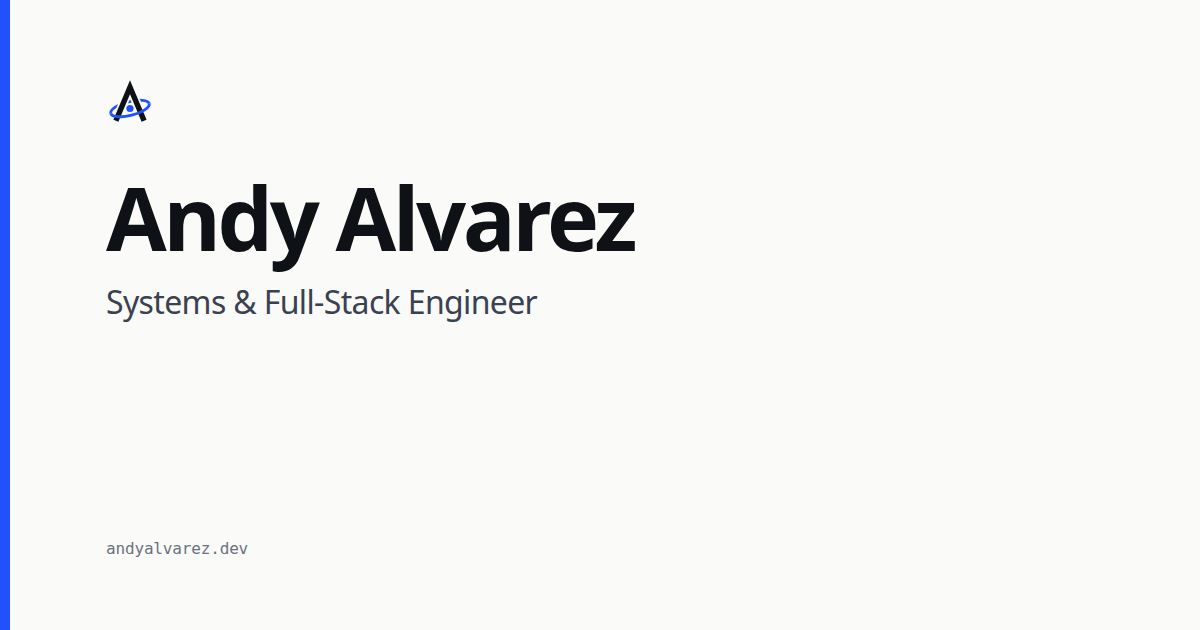
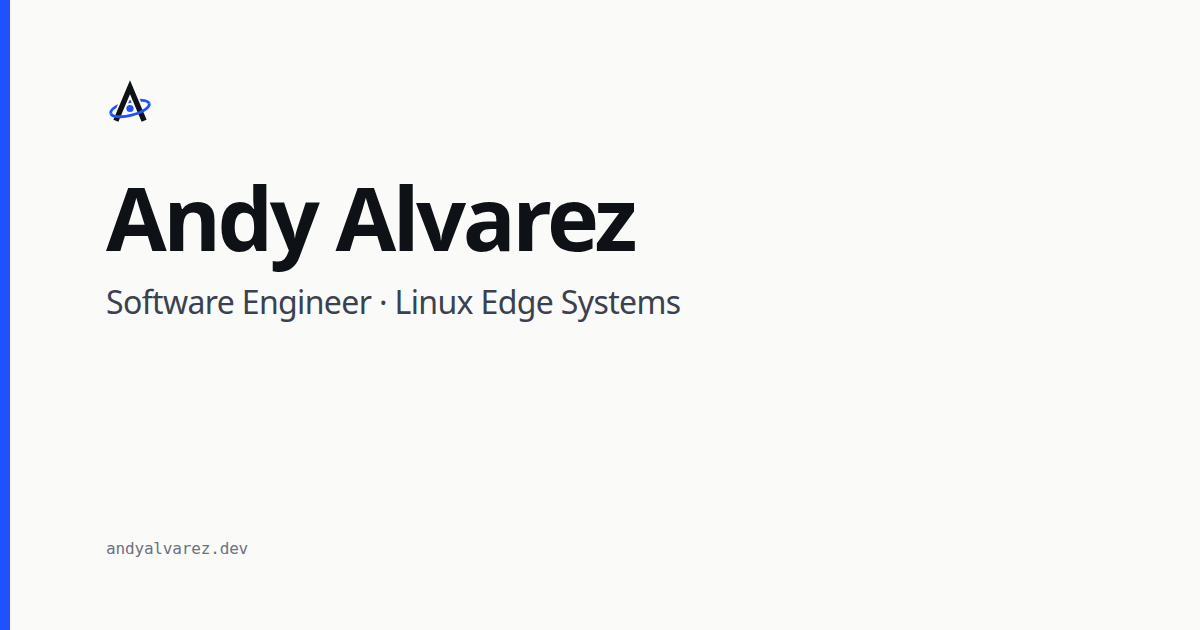
Update title to Software Engineer · Linux Edge Systems
Refresh the hero lede and Edge systems skill row (Raspberry Pi, Jetson),
and keep Atomic's eyebrow from orphaning "Systems" on a line of its own.
The Experience job title is unchanged.

Changed region(s): [[0.0925, 0.4524, 0.5858, 0.5127]]

diff --git a/src/index.html b/src/index.html
@@ -2,10 +2,10 @@
 <html lang="en" data-theme="light" data-ui="pro">
 <head>
   <meta charset="utf-8">
-  <title>Andy Alvarez · Systems & Full-Stack Engineer</title>
+  <title>Andy Alvarez · Software Engineer · Linux Edge Systems</title>
   <base href="/">
   <meta name="viewport" content="width=device-width, initial-scale=1">
-  <meta name="description" content="Andy Alvarez, Systems & Full-Stack Engineer. I build software and hardware that run in the real world, from embedded systems to full-stack apps.">
+  <meta name="description" content="Andy Alvarez, Software Engineer · Linux Edge Systems. I build software for hardware that runs in the real world, from microcontroller projects to Linux edge devices and full-stack apps.">
   <meta name="theme-color" content="#FAFAF8">
   <link rel="icon" href="favicon.svg?v=d" type="image/svg+xml">
   <link rel="icon" type="image/png" sizes="32x32" href="favicon-32.png?v=d">
@@ -19,16 +19,16 @@
   -->
   <link rel="canonical" href="https://andyalvarez.dev/">
   <meta property="og:type" content="website">
-  <meta property="og:title" content="Andy Alvarez · Systems & Full-Stack Engineer">
-  <meta property="og:description" content="I build software and hardware that run in the real world, from embedded systems to full-stack apps.">
+  <meta property="og:title" content="Andy Alvarez · Software Engineer · Linux Edge Systems">
+  <meta property="og:description" content="I build software for hardware that runs in the real world, from microcontroller projects to Linux edge devices and full-stack apps.">
   <meta property="og:url" content="https://andyalvarez.dev/">
   <meta property="og:image" content="https://andyalvarez.dev/assets/og-card.png">
   <meta property="og:image:width" content="1200">
   <meta property="og:image:height" content="630">
-  <meta property="og:image:alt" content="Andy Alvarez, Systems & Full-Stack Engineer">
+  <meta property="og:image:alt" content="Andy Alvarez, Software Engineer · Linux Edge Systems">
   <meta name="twitter:card" content="summary_large_image">
-  <meta name="twitter:title" content="Andy Alvarez · Systems & Full-Stack Engineer">
-  <meta name="twitter:description" content="I build software and hardware that run in the real world, from embedded systems to full-stack apps.">
+  <meta name="twitter:title" content="Andy Alvarez · Software Engineer · Linux Edge Systems">
+  <meta name="twitter:description" content="I build software for hardware that runs in the real world, from microcontroller projects to Linux edge devices and full-stack apps.">
   <meta name="twitter:image" content="https://andyalvarez.dev/assets/og-card.png">
   <!-- Set theme before first paint. Keep in sync with ThemeService. -->
   <script>

diff --git a/src/app/data/profile.ts b/src/app/data/profile.ts
@@ -12,11 +12,11 @@ export interface HeroBullet {
 
 export const PROFILE = {
   name: { first: 'Andy', last: 'Alvarez' },
-  title: 'Systems & Full-Stack Engineer',
-  lede: 'I build software and hardware that run in the real world, from embedded systems to full-stack apps.',
+  title: 'Software Engineer · Linux Edge Systems',
+  lede: 'I build software for hardware that runs in the real world, from microcontroller projects to Linux edge devices and full-stack apps.',
   /** Hero skill rows. */
   skills: [
-    { group: 'Embedded & systems', items: ['C', 'C++', 'Arduino', 'ESP32', 'State machines', 'TCP/UDP', 'ROS integration'] },
+    { group: 'Edge systems', items: ['C', 'C++', 'Arduino', 'ESP32', 'Raspberry Pi', 'Jetson', 'State machines', 'TCP/UDP', 'ROS integration'] },
     { group: 'Full-stack & data', items: ['TypeScript', 'Angular', 'Node.js', 'Python', 'PostgreSQL', 'TimescaleDB', 'Redis', 'REST APIs', 'Docker', 'AWS'] },
   ],
   bullets: [

diff --git a/src/app/components/hero/hero.html b/src/app/components/hero/hero.html
@@ -2,7 +2,7 @@
   <div class="unit" aria-hidden="true"></div>
   <div class="top">
     <div class="intro">
-      <div class="eyebrow">{{ p.title }}</div>
+      <div class="eyebrow">@for (t of p.title.split(' · '); track t; let last = $last) {<span>{{ t }}{{ last ? '' : ' ·' }}</span>{{ last ? '' : ' ' }}}</div>
       <h1 class="chrome">{{ p.name.first }} <em>{{ p.name.last }}</em></h1>
       <p class="role">@for (t of p.title.split(' · '); track t; let last = $last) {<span>{{ t }}{{ last ? '' : ' ·' }}</span>{{ last ? '' : ' ' }}}</p>
       <p class="lede">{{ p.lede }}</p>

diff --git a/src/app/components/hero/hero.scss b/src/app/components/hero/hero.scss
@@ -9,6 +9,7 @@
   }
   .top { display: grid; grid-template-columns: minmax(0, 1fr) 560px; gap: 48px; align-items: center; }
   .eyebrow { font-family: var(--f-vfd); font-size: 23px; letter-spacing: 1px; color: var(--cyan); }
+  .eyebrow span { white-space: nowrap; }
   .role { display: none; }
   .btns .chip-btn:not(.chrome) { box-shadow: 0 0 16px #1f51ff99; }
   h1 { font-family: var(--f-display); font-weight: 700; font-size: 88px; line-height: .96; margin: 10px 0 18px; filter: drop-shadow(0 2px 0 var(--blue)); }
